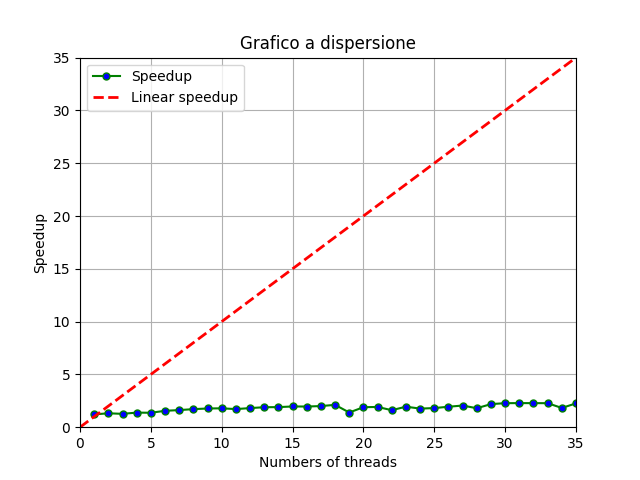
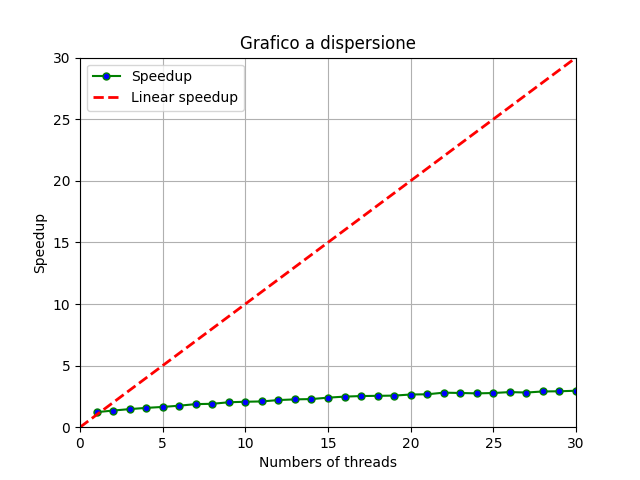
results

diff --git a/readFile.cpp b/readFile.cpp
@@ -15,11 +15,11 @@ facebook_combined = *PICCOLO* - NODES: 4039 EDGE: 88234  TRIANGLES: 1612010
 denseGraph4039 = *DENSO* - NODES: 4039 EDGE: XXX  TRIANGLES: 1612010 
 */
 
-string path_name = "./Databases/CA-GrQc.txt"; 
+//string path_name = "./Databases/CA-GrQc.txt"; 
 //string path_name = "./Databases/email-Eu-core.txt";                 
 //string path_name = "./Databases/Email-Enron.txt"; 
 //string path_name = "./Databases/facebook_combined.txt";     //sparso 
-//string path_name = "./Databases/denseGraph4039.txt";      //denso
+string path_name = "./Databases/denseGraph4039.txt";      //denso
 
 int** creaMatrix(int n){
    int **adjacency_matrix = new int *[n];
